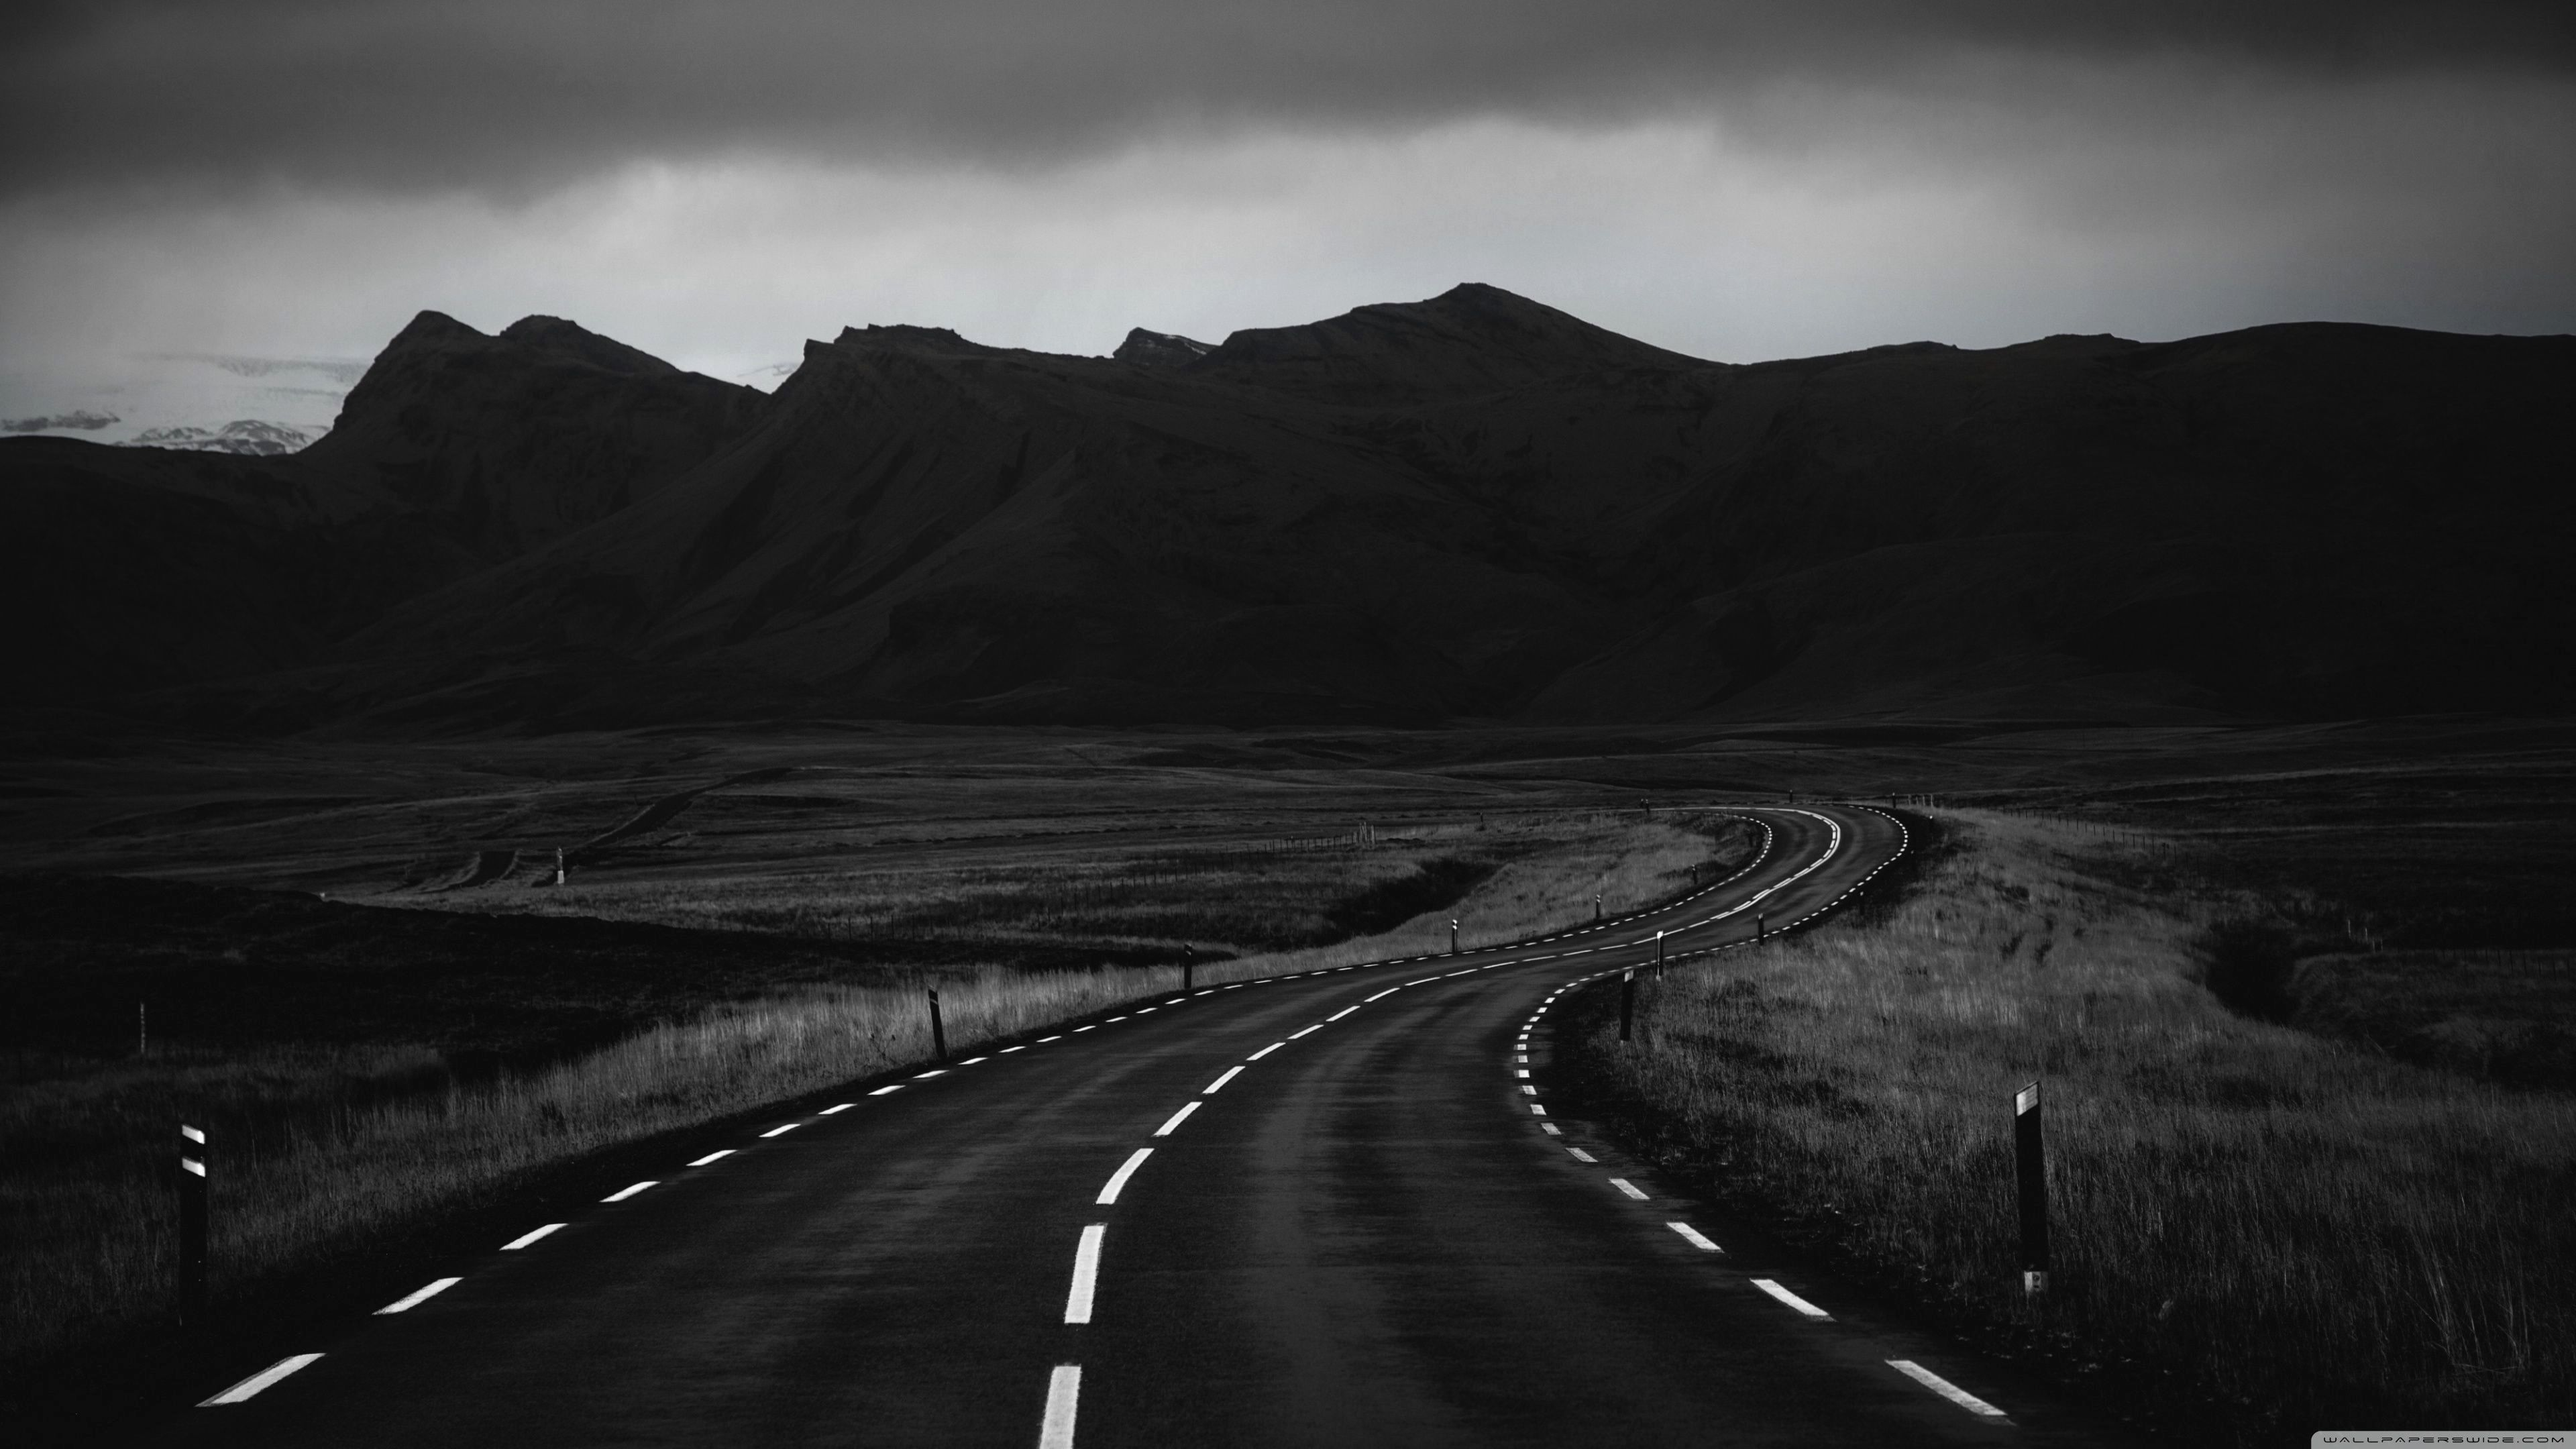
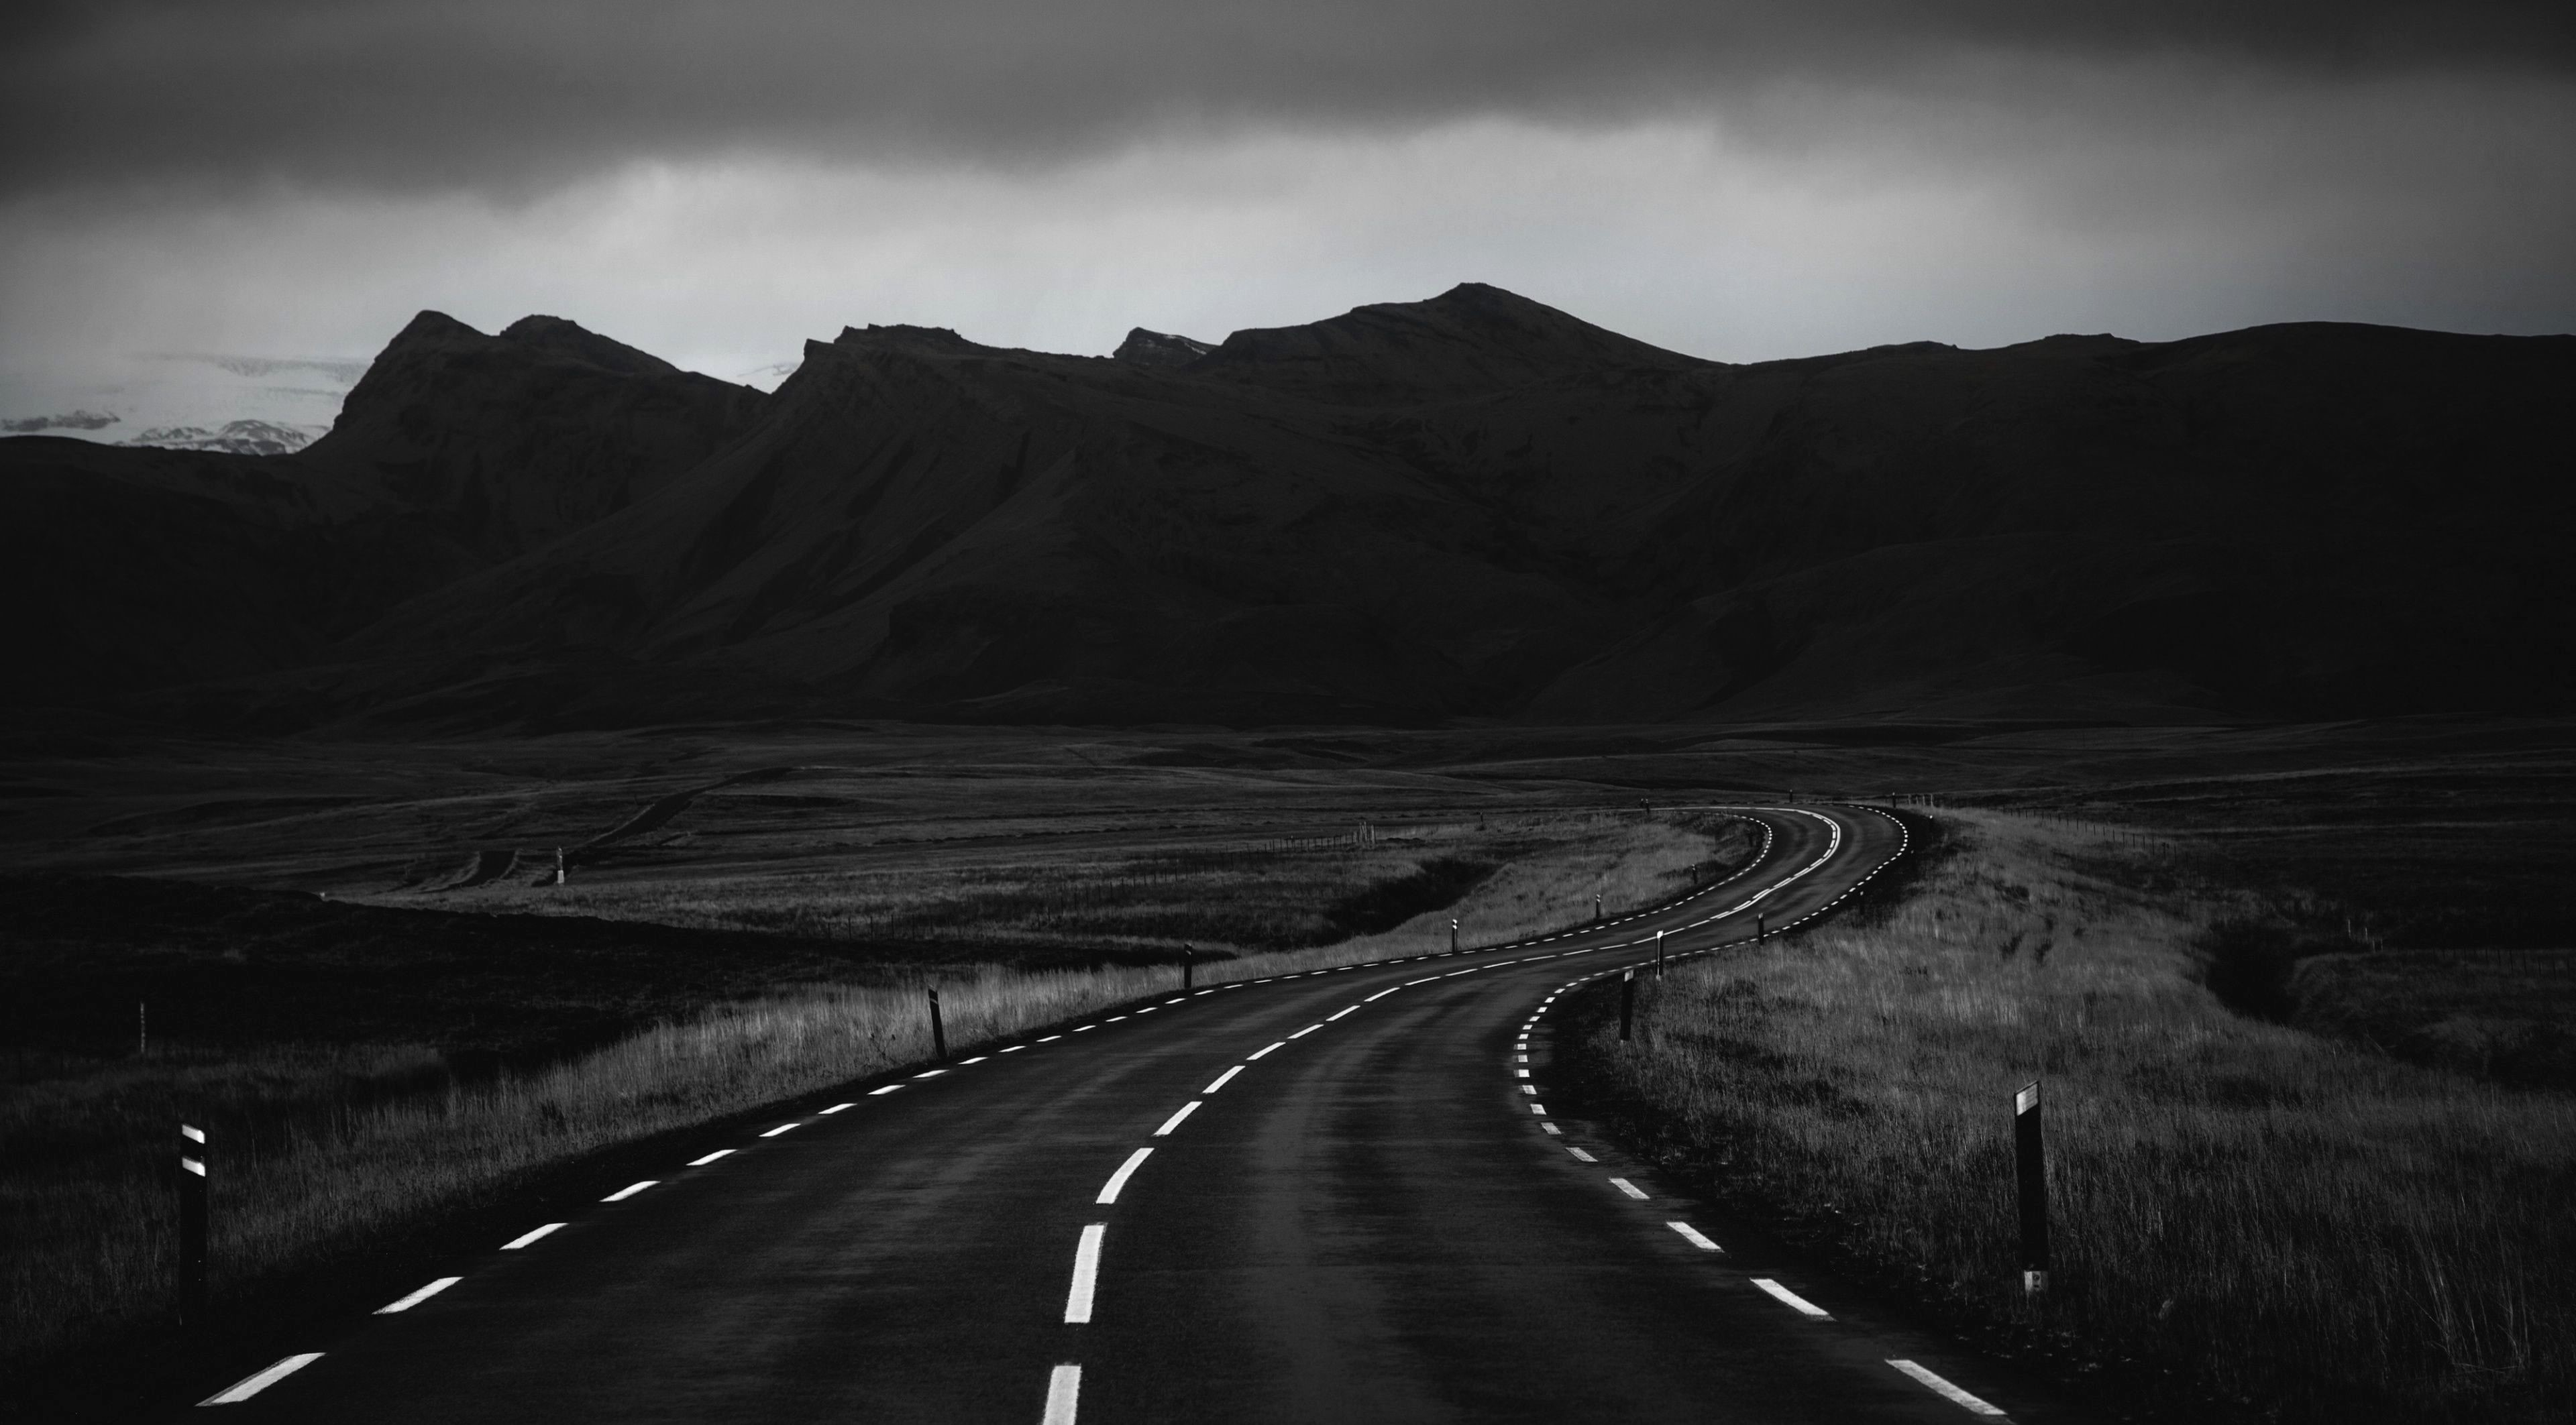
new style with wallpaper

diff --git a/src/assets/styles/theme-dark/labels.scss b/src/assets/styles/theme-dark/labels.scss
@@ -9,13 +9,14 @@
 
 
 h1 {
-  width: 95%;
+  width: 90%;
   padding: 1rem;
   text-align: center;
   color: $titles;
   transition: all 0.5s;
-  border-bottom: 0.5rem solid ;
-  border-top: 0.5rem solid;
+  border-top: 0.2rem solid;
+  border-bottom: 0.2rem solid;
+  background: transparent;
   animation: title-animation 5s linear infinite;
   &:hover {
     text-shadow: 0.1rem 1px 0.2rem;
@@ -28,10 +29,12 @@ h4 {
   width: 90%;
   color: $subtitles;
   animation: subtitle-animation 5s linear infinite;
-  background-color: transparent;
+  background: transparent;
+  border-top: 0.2rem solid;
+  border-bottom: 0.2rem solid;
   transition: all 0.5s;
-  border-bottom: 0.4rem solid ;
-  border-top: 0.5rem solid;
+  text-shadow: 1px 1px 3px #3d3d3d;
+  text-align: center;
   &:hover {
     text-shadow: 0.1rem 1px 0.2rem;
   }
@@ -41,7 +44,9 @@ p {
   transition: all 0.2s;
   color: $text;
   font-style: oblique;
+  text-shadow: 2px 3px 2px #070707;
   font-weight: 100;
+  background: transparent;
   animation: text-position 30s linear infinite;
 }
 
@@ -60,7 +65,7 @@ img{
   }
 }
 div {
-  background-color: transparent;
+  background: transparent;
 }
 button {
   background: rgb(31, 30, 30);
@@ -91,12 +96,14 @@ button {
 }
 a{
   text-decoration: none;
-  animation: text-position 60s linear infinite
+  animation: text-position 60s linear infinite;
+  background: transparent;
 }
 
 main {
   margin: auto;
   width: 90%;
+  background: transparent;
 }
 article {
   padding: 2rem;
@@ -108,6 +115,7 @@ article {
   text-align: center;
   transition: all 0.5s ease;
   display: flex;
+  background: transparent;
   flex-direction: row;
   &:hover {
     animation: shadow-animation 5s linear infinite  ;

diff --git a/src/app/home/home.component.ts b/src/app/home/home.component.ts
@@ -3,7 +3,7 @@ import { Component } from '@angular/core';
 @Component({
   selector: 'app-home',
   template: `
-    <mat-sidenav-container class="h-full w-full">
+    <mat-sidenav-container class="h-full w-full bg-transparent">
       <mat-sidenav #sidenav mode="side" [opened]="showMenu" class="wi-side">
         <img
           *ngIf="showMenu == true"
@@ -14,8 +14,8 @@ import { Component } from '@angular/core';
         />
         <sider-bar (hiddenToogle)="toggleMenu()"></sider-bar>
       </mat-sidenav>
-      <mat-sidenav-content class="container bg-black-super">
-        <div class="ml-4 mt-2">
+      <mat-sidenav-content class="container">
+        <div class="ml-4 mt-2 bg-transparent">
           <router-outlet></router-outlet>
         </div>
         <img

diff --git a/src/app/home/software-developer/projects/projects.component.ts b/src/app/home/software-developer/projects/projects.component.ts
@@ -13,7 +13,7 @@ interface Project {
   selector: 'app-projects',
   standalone: false,
   template: `
-    <div class="w-full row wrap" (wheel)="onScroll($event)">
+    <div class="w-full row bg-transparent wrap" (wheel)="onScroll($event)">
       <ng-container
         *ngFor="let project of projects"
       >
@@ -34,7 +34,8 @@ interface Project {
       article{
         height: 15rem;
         margin-top: 2rem;
-        padding: 2rem
+        padding: 2rem;
+        background-color: #232222;
       }
       div{
         margin-top: 10%;

diff --git a/src/app/home/about-me/about-me.component.css b/src/app/home/about-me/about-me.component.css
@@ -2,6 +2,7 @@ p {
   width: 90%;
   margin-top: 10rem;
   text-align: center;
+  background-color: transparent;
 }
 .container {
   width: 95%;
@@ -11,10 +12,12 @@ p {
   margin-left: 5rem;
   margin-top: 2rem;
   overflow: hidden;
+  
 }
 .subcontainer {
   width: 40%;
   height: 11rem;
+  background-color: transparent;
 }
 img {
   width: 20rem;
@@ -22,8 +25,9 @@ img {
   margin-left: 2rem;
 }
 
-h1 h2 {
+h1 h2 h3{
   width: 100%;
+  background-color: transparent;
 }
 
 @media (min-width: 1300px) {

diff --git a/src/app/home/software-developer/skills/skills.component.ts b/src/app/home/software-developer/skills/skills.component.ts
@@ -40,10 +40,10 @@ export class SkillsComponent {
   aptitudes: Aptitud[] = [
     {img: 'assets/img/Angular_logo.png', title:'Angular'},
     {img: 'assets/img/.Net.png', title:'.Net'},
-    {img: 'assets/img/Fast_api_logo.png', title:'FastAPI'},
     {img: 'assets/img/MongoDB_logo.png', title:'MongoDB'},
     {img:'assets/img/SQLServer_logo.png', title: 'SQL Server'}
   ];
+  // {img: 'assets/img/Fast_api_logo.png', title:'FastAPI'},
 
   constructor(
     private router: Router,

diff --git a/src/styles.scss b/src/styles.scss
@@ -1,13 +1,17 @@
 @import "./assets/styles/theme-dark/index.scss";
-
+*{
+  background-color: transparent;
+}
 app-root {
   width: 100%;
   height: 100%;
   app-layout-programmer {
     display: flex;
     flex-direction: column;
+    background: transparent;
     main {
       display: flex;
+      background: transparent;
       border-radius: 1rem;
       flex-direction: row;
       justify-content: center;

diff --git a/src/app/home/software-developer/skills/skills.component.scss b/src/app/home/software-developer/skills/skills.component.scss
@@ -8,14 +8,18 @@ li {
 }
 article {
   width: 80%;
-  height: 25rem;
+  height: auto;
   margin-left: 10%;
   margin-top: 8%;
+  background-color: #232222;
   div {
     width: 50%;
     cursor: default;
+    background: transparent;
     ul {
+      background: transparent;
       li {
+        background: transparent;
         text-align: center;
         margin-left: -3rem;
         font-size: 100%;

diff --git a/src/assets/styles/theme-dark/classes.scss b/src/assets/styles/theme-dark/classes.scss
@@ -1,5 +1,8 @@
 @import "./colors.scss";
 @import "./animations/shadow-animation.scss";
+.bg-transparent{
+  background: transparent;
+}
 .row {
   display: flex;
   flex-direction: row;
@@ -102,7 +105,7 @@
   box-shadow: $shadow-image;
 }
 .img-profile {
-  
+
   border-radius: 2rem;
   transition: all 0.5s;
   &:hover{

diff --git a/src/assets/styles/theme-dark/colors.scss b/src/assets/styles/theme-dark/colors.scss
@@ -1,7 +1,7 @@
 $background-color: #181818;
-$titles: #e5c6c6;
-$subtitles: #f8ceb2;
-$text: #ffdfdf;
+$titles: #cc1f1f;
+$subtitles: #cc6520;
+$text: #ffb26b;
 $shadow-start: 2px 2px 5px 3px rgba(65, 21, 21, 0.459);
 $shadow-mid: 2px 2px 10px 3px rgba(87, 87, 87, 0.3);
 $shadow-end: 2px 2px 7px 5px rgb(97, 97, 97);

diff --git a/src/app/home/home.component.css b/src/app/home/home.component.css
@@ -19,6 +19,12 @@ img{
   overflow:  hidden scroll;
   scrollbar-width: none;
 }
+mat-sidenav-content{
+  background-image: url("../../assets/img/wallpaper.jpg");
+  background-repeat: no-repeat;
+  background-size: 100% 100%;
+}
+
 @media (max-width: 800px) {
   .wi-side {
     width: 100%;

diff --git a/src/app/home/contact-me/contact-me.component.scss b/src/app/home/contact-me/contact-me.component.scss
@@ -3,7 +3,9 @@ $shadow-end: 2px 2px 15px 5px rgba(255, 255, 255, 0.3);
 p {
   font-size: 200%;
   cursor: default;
+  text-shadow: $shadow-end;
   transition: text-align 0.3s;
+  margin-top: 4rem;
 }
 h1 {
   font-size: 200%;

diff --git a/src/app/layouts/layout-programmer/layout-programmer.component.scss b/src/app/layouts/layout-programmer/layout-programmer.component.scss
@@ -1,4 +1,3 @@
 
-sider-bar{
-  width: 15%;
-}
+
+
